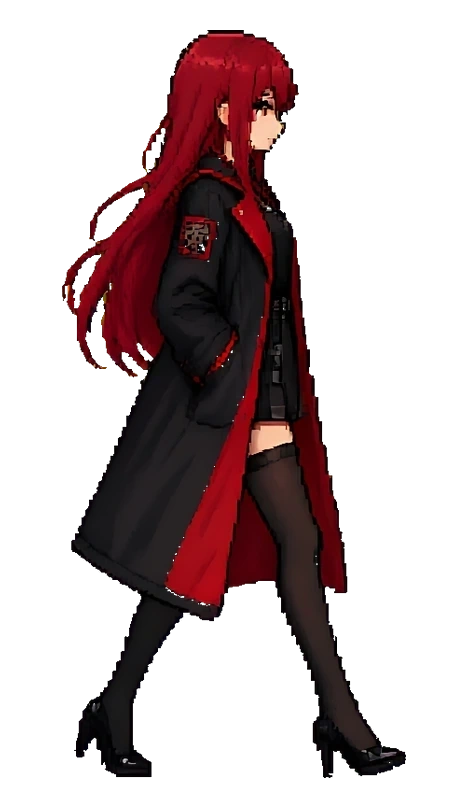
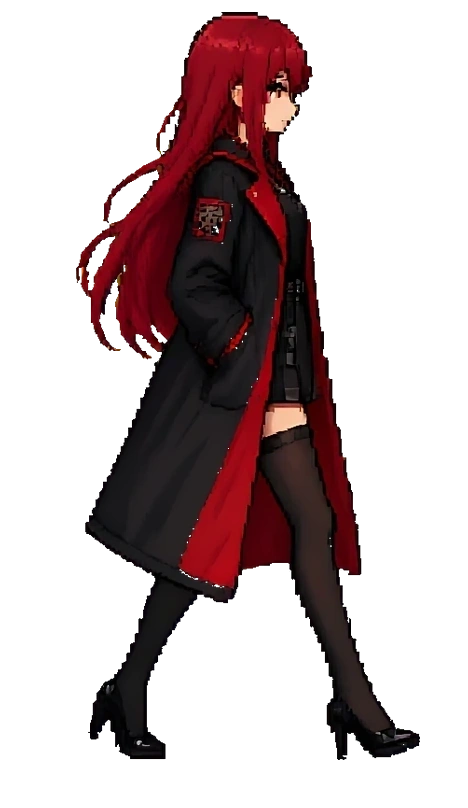
feat: add random theme and finalize walking

diff --git a/web/js/app.js b/web/js/app.js
@@ -49,6 +49,7 @@ const app = Vue.createApp({
       customTemplates: [],
       customAccent: '',
       clockNow: Date.now() / 1000,
+      randomThemeId: themeTemplates.filter((entry) => !entry.random)[Math.floor(Math.random() * themeTemplates.filter((entry) => !entry.random).length)].id,
       clockTimer: null,
       batteryLevel: null,
       batteryCharging: false,
@@ -119,8 +120,10 @@ const app = Vue.createApp({
       return ({ imminent: '事件临近', live: '事件执行中', quiet: '城市信号稳定' })[this.eventState]
     },
     activeTheme() {
-      const id = this.data.config?.appearance?.theme || 'tomato_rain'
-      return themeTemplates.find((entry) => entry.id === id) || themeTemplates[0]
+      const actual = themeTemplates.filter((entry) => !entry.random)
+      const id = this.data.config?.appearance?.theme || 'random'
+      const chosen = id === 'random' ? this.randomThemeId : id
+      return actual.find((entry) => entry.id === chosen) || actual.find((entry) => entry.id === this.randomThemeId) || actual[0]
     },
     petVariant() { return this.activeTheme?.character || 'tomato' },
     petPoses() {
@@ -550,8 +553,10 @@ const app = Vue.createApp({
     },
     applyAppearance() {
       const appearance = this.data.config?.appearance || {}
-      const themeId = appearance.theme || 'tomato_rain'
-      const theme = themeTemplates.find((entry) => entry.id === themeId) || themeTemplates[0]
+      if (!themeTemplates.some((entry) => entry.id === appearance.theme) || appearance.theme === 'random') {
+        this.data.config.appearance.theme = 'random'
+      }
+      const theme = this.activeTheme
       document.documentElement.dataset.themeName = theme.id
       document.documentElement.dataset.theme = theme.mode || 'dark'
       try { localStorage.setItem('krd_theme', theme.id) } catch (_) {}
@@ -618,6 +623,10 @@ const app = Vue.createApp({
     },
     async setTheme(theme) {
       try {
+        if (theme.id === 'random') {
+          const actual = themeTemplates.filter((entry) => !entry.random)
+          this.randomThemeId = actual[Math.floor(Math.random() * actual.length)].id
+        }
         await saveConfig({ appearance: { theme: theme.id } })
         this.data.config.appearance.theme = theme.id
         this.applyAppearance()
@@ -635,6 +644,7 @@ const app = Vue.createApp({
     },
     prepareSettings() {
       this.draft = clone(this.data.config || {})
+      if (!themeTemplates.some((entry) => entry.id === this.draft.appearance?.theme)) this.draft.appearance.theme = 'random'
       this.settingsBaseRevision = this.data.config_revision || 0
       this.allSessions = this.data.sessions || []
       this.diagnostics = null

diff --git a/web/js/views.js b/web/js/views.js
@@ -283,8 +283,8 @@ export const TemplatesView = {
     </section>
     <section class="section-card glass">
       <div class="section-heading"><div><span class="eyebrow">外观与头像</span><h2>让界面也拥有生活感</h2></div></div>
-      <div class="theme-grid"><button v-for="theme in $root.themeTemplates" class="theme-card" :class="{active: $root.data.config.appearance.theme === theme.id}" @click="$root.setTheme(theme)">
-        <span class="theme-preview" :data-theme-name="theme.id" :style="(theme.art || theme.customArt) ? {backgroundImage: 'linear-gradient(180deg, transparent, rgba(5,8,18,.6)), url(' + $root.themeArt(theme) + ')'} : {}"><i></i><i></i><i></i></span><strong>{{ theme.name }}</strong><small>{{ theme.description }}</small>
+      <div class="theme-grid"><button v-for="theme in $root.themeTemplates" class="theme-card" :class="{active: ($root.data.config.appearance.theme === 'random' ? theme.random : $root.data.config.appearance.theme === theme.id)}" @click="$root.setTheme(theme)">
+        <span class="theme-preview" :data-theme-name="theme.id" :style="theme.random ? {backgroundImage: 'radial-gradient(circle at 30% 25%, #ff3f6e 0, transparent 32%), radial-gradient(circle at 70% 70%, #45d9cf 0, transparent 34%), linear-gradient(135deg,#171427,#0a0d16)'} : ((theme.art || theme.customArt) ? {backgroundImage: 'linear-gradient(180deg, transparent, rgba(5,8,18,.6)), url(' + $root.themeArt(theme) + ')'} : {})><i></i><i></i><i></i></span><strong>{{ theme.name }}</strong><small>{{ theme.description }}</small>
       </button></div>
       <div class="avatar-editor"><img :src="$root.avatarUrl" alt="当前头像"><div><h3>生活头像</h3><p>默认自动获取适配器头像，也可以为此人格上传专属图片。</p><label class="soft-button upload-button">上传头像<input type="file" accept="image/png,image/jpeg,image/webp,image/gif" @change="$root.uploadAvatar"></label></div></div>
       <div class="avatar-editor"><div><h3>全屏生活背景</h3><p>上传后会覆盖主题插画，手机和桌面均以全屏裁切适配；随时可恢复主题背景。</p><div class="data-actions"><label class="soft-button upload-button">上传背景<input type="file" accept="image/png,image/jpeg,image/webp,image/gif" @change="$root.uploadBackground"></label><button class="soft-button" @click="$root.clearBackground">恢复主题背景</button></div></div></div>

diff --git a/web/js/pet.js b/web/js/pet.js
@@ -247,11 +247,13 @@ export const PetCompanion = {
     this.showCare()
     this.chooseAction(true)
     this.idleTimer = setInterval(() => this.chooseAction(false), 12000)
-    this.wanderTimer = setInterval(() => this.wander(), 12000)
+    this.wanderTimer = setInterval(() => this.wander(), 10000)
+    this.initialWalkTimer = setTimeout(() => this.wander(), 4500)
   },
   beforeUnmount() {
     clearInterval(this.idleTimer)
     clearInterval(this.wanderTimer)
+    clearTimeout(this.initialWalkTimer)
     clearTimeout(this.walkTimer)
     clearInterval(this.walkFrameTimer)
     clearTimeout(this.speechTimer)
@@ -360,7 +362,7 @@ export const PetCompanion = {
     nextWalkTarget() {
       const min = window.innerWidth < 700 ? 12 : 8
       const max = window.innerWidth < 700 ? 78 : 90
-      const distance = 12 + Math.random() * 28
+      const distance = 10 + Math.random() * 22
       let direction = Math.random() < 0.5 ? -1 : 1
       let next = this.x + direction * distance
       if (next < min || next > max) {
@@ -401,7 +403,7 @@ export const PetCompanion = {
       this.facing = target > this.x ? 1 : -1
       this.action = 'walk'
       this.walkFrame = 0
-      this.walkFrameTimer = setInterval(() => { this.walkFrame = (this.walkFrame + 1) % 4 }, 140)
+      this.walkFrameTimer = setInterval(() => { this.walkFrame = (this.walkFrame + 1) % 4 }, 180)
       const step = () => {
         if (!this.walking || this.dragging) { this.walking = false; this.walkTimer = null; return }
         const diff = target - this.x

diff --git a/web/js/templates.js b/web/js/templates.js
@@ -65,4 +65,5 @@ export const themeTemplates = [
   { id: 'hathor_garage', name: '天使 · 夜行', description: '地下车库，机车与白色机械翼', color: '#58e1d1', mode: 'dark', art: 'hathor_garage', character: 'hathor', tone: 'garage' },
   { id: 'hathor_roof', name: '天使 · 天台巡航', description: '雨夜天台，蹲在边缘观察城市', color: '#64b8ff', mode: 'dark', art: 'hathor_roof', character: 'hathor', tone: 'sky' },
   { id: 'hathor_store', name: '天使 · 便利店', description: '玻璃便利店外，一罐热咖啡', color: '#7bffd1', mode: 'dark', art: 'hathor_store', character: 'hathor', tone: 'store' },
+  { id: 'random', name: '随机主题', description: '每次进入 WebUI 随机抽一套', color: '#8f9cff', mode: 'dark', art: '', random: true },
 ]

diff --git a/web/css/nte.css b/web/css/nte.css
@@ -995,3 +995,5 @@ body { background:#08090c; }
 @keyframes refresh-spin { to { transform:rotate(360deg); } }
 .pet-action-jump .pet-figure { animation:pet-jump-hop .5s ease-out; }
 @keyframes pet-jump-hop { 0%,100%{transform:translateY(0)} 45%{transform:translateY(-10px) scaleY(1.04)} 70%{transform:translateY(0) scaleY(.95)} }
+
+.pet-action-walk .pet-figure { animation:none !important; }

diff --git a/krd/config.py b/krd/config.py
@@ -69,7 +69,7 @@ DEFAULT_CONFIG: dict[str, Any] = {
         "virtual": {"seed": "krd", "climate": "temperate", "location": ""}
     },
     "appearance": {
-        "theme": "lacrimosa_dusk",
+        "theme": "random",
         "effects": "auto",
         "avatar_source": "auto",
         "avatar_adapter_order": [],
